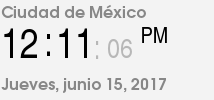
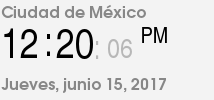
update images 15-06-2017 12:20

Changed region(s): [[0.2523, 0.27, 0.4486, 0.6]]

diff --git a/README.md b/README.md
@@ -5042,3 +5042,4 @@
 |15-06-2017 11:50
 |15-06-2017 12:03
 |15-06-2017 12:11
+|15-06-2017 12:20
